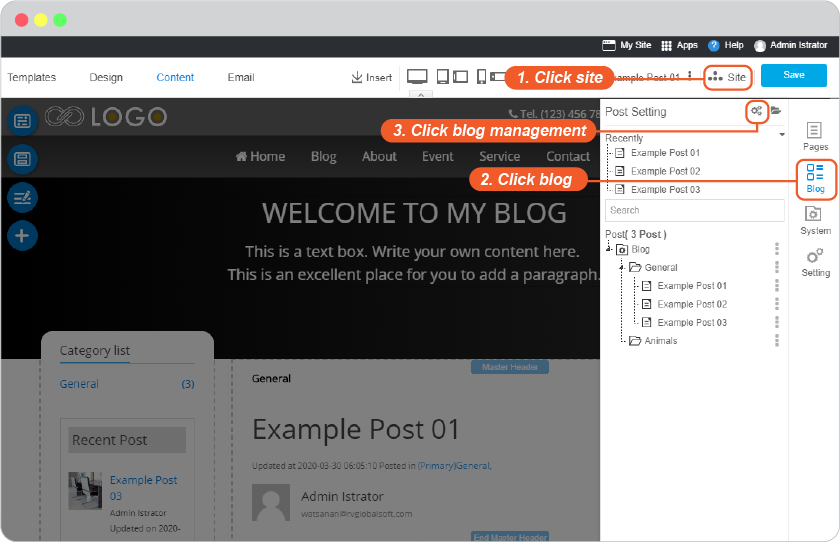
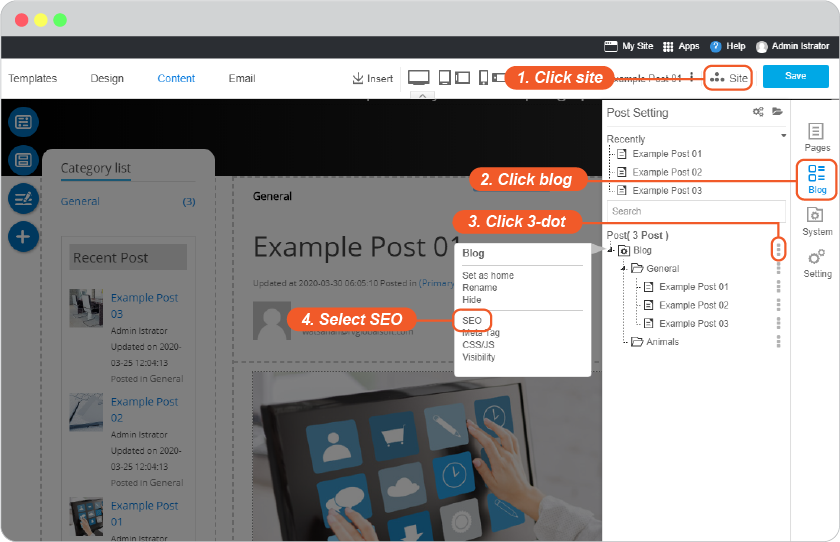
edit blog seo

diff --git a/en/blog-seo.md b/en/blog-seo.md
@@ -67,9 +67,9 @@ Slide the slide-button to right to custom the title and description to be more e
 
 You will see the *Auto title and description* are the automated as default.
 
-![image](images/blog_seo/img_seo_by_post_03_setting_01.png)
+![image](images/blog_seo/img_seo_by_blog_01_02.png)
 
-![image](images/blog_seo/img_seo_by_post_04_setting_02.png)
+![image](images/blog_seo/img_seo_by_blog_01_03.png)
 
 -   **Blog title** : You can edit blog title to be more search key than blog name such as changing Blog to Travel Blog.
 -   **Post's url** : You can edit url of this post to be more search key than the normal such as changing https://rvsitebuilder.com/**blog** to https://rvsitebuilder.com/**travelblog**
